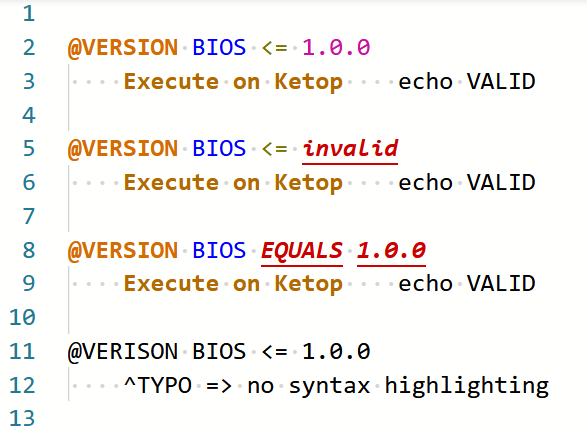
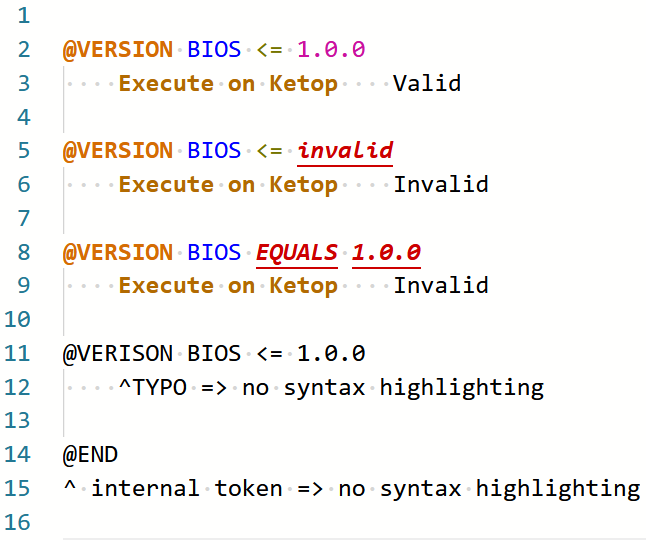
implementing feedback p2

diff --git a/sections/4_implementation/7_a_syntax-highlighting.tex b/sections/4_implementation/7_a_syntax-highlighting.tex
@@ -4,14 +4,18 @@ One part of this project presented in this theis, was the development of Syntax 
 
 There is a fundamental problem though. Because standard text-editors and native Robot Framework syntax highlighters do not recognize this new grammar, custom annotations would be displayed as plain text, or worse, marked as syntax errors.
 
-For KEBA, the frontend editor needs a way to visually mark these custom elements, because if they are not able to do so, it can lead to worse developer experience and more errors that go unnoticed until execution. Without visual validation, developers make more syntax mistakes. For example, writing \texttt{@VERISON} instead of \texttt{@VERSION}) or using an invalid argument type, like passing a plain string where a semantic version number is expected, would not be recognized while typing. These mistakes remain unnoticed. The errors are only found during the backend transpilation phase much later, when an error log is generated. This breaks the entire programming workflow and wastes precious time.
+For KEBA, the frontend editor needs a way to visually mark these custom elements, because if they are not able to do so, it can lead to worse developer experience and more errors that go unnoticed until execution. Without visual validation, developers make more syntax mistakes. 
+eFor example, writing \texttt{@VERISON} instead of \texttt{@VERSION} or using an invalid argument type, like passing a plain string where a semantic version number is expected, would not be recognized while typing. These mistakes remain unnoticed. The errors are only found during the backend transpilation phase much later, when an error log is generated. This breaks the entire programming workflow and wastes precious time.
 
-To fix this, custom syntax highlighting should be integrated into the web-based pre-existing code editor. The main objective simply was to get immediate visual feedback and validation. Correct keywords, different types of arguments and errors should all be highlighted in unique colors. This should reduce the time needed for test development using the annotations by a lot. Figure \ref{fig:syntax_highlighting} shows how the editor is supposed to handle valid and invalid inputs.
+To fix this, custom syntax highlighting should be integrated into the web-based pre-existing code editor. The main objective simply was to get immediate visual feedback and validation. Correct keywords, different types of arguments and errors should all be highlighted in unique colors. This should reduce the time needed for test development, with our Script Assembler annotations/modifiers in use, by a lot. Figure \ref{fig:syntax_highlighting} shows how the editor is supposed to handle valid and invalid inputs.
 
 \begin{figure}
     \centering
     \includegraphics[width=0.75\linewidth]{pics/SyntaxHighlighting/SyntaxWHITE.png}
-    \caption{Syntax Highlighting in Action}
+    \captionsetup{justification=centering,singlelinecheck=false}
+    \caption{
+      Syntax Highlighting in Action\\
+{\small\itshape (color scheme was modified for better visibility in print)}}    
     \label{fig:syntax_highlighting}
 \end{figure}
 
@@ -26,7 +30,7 @@ Over time the frontend ecosystem of the project has been updated to Angular 15, 
 
 This workaround made it possible for the legacy code to somehow continue working, but it also created major risks for maintainability and the build process. Forcing npm installation is a bad practice since it only covers up package mismatches and other errors. Because of this, there is a major risk that one might get unpredictable runtime behaviors \cite{npmForceDocs}. Since we do not want that, especially later on in production, the package needed to be replaced.
 
-After some research, the best and most widely used package seemed to be \texttt{ngx-monaco-editor-v2}. This version is an actively maintained community fork that is compatible with mordern Angular versions \cite{NgxMonacoEditorV2}.
+After some research, the best and most widely used package, fitting exactly our requirements, seemed to be \texttt{ngx-monaco-editor-v2}. This version is an actively maintained community fork that is compatible with mordern Angular versions \cite{NgxMonacoEditorV2}.
 
 The migration was handled in several steps to ensure a stable base. The \texttt{package.json} had to be updated, then the \texttt{app.module.ts} was refactored to match the new library and finally the asset paths in \texttt{angular.json} had to be updated.
 
@@ -40,7 +44,7 @@ Looking in the documentation gave me a hint in the right direction. The engine o
 
 The solution was to add an empty \texttt{colors} object to the theme definition. Listing \ref{lst:theme_definition} shows the working theme configuration, which includes the required \texttt{colors} property alongside the specific token rules.
 
-\begin{lstlisting}[caption={Custom monaco theme including the required color object}, label={lst:theme_definition}]
+\begin{lstlisting}[caption={Custom monaco theme including the required color object}, label={lst:theme_definition}, float=htbp]
 // Definition of the custom language theme
 (<any>window).monaco.editor.defineTheme('robot-theme', {
   base: 'vs-dark',
@@ -74,7 +78,7 @@ The annotations can be roughly divided into two categories. Those without any ar
 
 Modifiers without arguments, such as \texttt{@BRACKETSTART}, are simple to implement. As shown in Listing \ref{lst:root_tokenizer}, when the lexer encounters this keyword, it transitions to an \texttt{@endOfLine} state. This state  makes sure that no more text is accepted on this line. 
 
-\begin{lstlisting}[caption={Monarch tokenizers root state}, label={lst:root_tokenizer}]
+\begin{lstlisting}[caption={Monarch tokenizers root state}, label={lst:root_tokenizer}, float=htbp]
 tokenizer: {
   root: [
     // Standard Robot Framework variables
@@ -96,11 +100,12 @@ tokenizer: {
 
 Modifiers with arguments are more difficult, because hey require a more complex sequence of state transitions. The modifier \texttt{@VERSION} is a good example of this as the version check needs three different components. Also important is,  they have to be in an exact order, starting with an identifier (the BIOS or software name), than a comparison operator (e.g., <, >=), and at last a valid semantic version string.
 
-A chain of states was implemented, Root to identifier, Identifier to operator, Operator to version. That means in detail, when \texttt{@VERSION} is found in the \texttt{@root} state, the lexer transitions to \texttt{versionArgsIdentifier}. Once a valid word is found there, it transitions to \texttt{versionArgsOperator} and finally to \texttt{versionArgsSemver}.
+A chain of states was implemented, Root to identifier, Identifier to operator, Operator to version. That means that when \texttt{@VERSION} is found in the \texttt{@root} state, the lexer transitions to \texttt{versionArgsIdentifier}. Once a valid word is found there, it transitions to \texttt{versionArgsOperator} and finally to \texttt{versionArgsSemver}.
 
 This ``state machine'' approach guarantees that the syntax highlighting exactly fits to the strict sequence that the parser needs. Listing \ref{lst:version_states} shows this state chain in detail. 
 
-\begin{lstlisting}[caption={State transitions for the \texttt{@VERSION} modifier}, label={lst:version_states}]
+\begin{lstlisting}[caption={State transitions for the \texttt{@VERSION} modifier}, label={lst:version_states}, 
+  breaklines=true, breakatwhitespace=false, float=htbp ]
 versionArgsIdentifier: [ 
   // Entry point: match a word, then proceed to operator state
   [/[\w_]+/, 'arg.word', '@versionArgsOperator'],
@@ -134,11 +139,19 @@ During the implementation of the lexer, two main problems appeared, firstly to p
 
 The custom EBNF grammar for the Script Assembler is strictly line-bound, so an annotation has to be strictly on a singular line. So if a line break occurs the editor should return to the standard context used for the syntax highlighting of the Robot Framework.
 
-In the beginning, this caused a big conflict with Monarch's stateful tokenization. When the lexer goes into a state like \texttt{versionArgsIdentifier}, it just stays inside it until an explicit command such as \texttt{@root} or \texttt{@pop} is triggered. If a developer typed the keyword \texttt{@VERSION} and then pressed the Enter key without any arguments, the lexer got stuck in the \texttt{versionArgsIdentifier} state on the next line. Because of this, normal Robot Framework code on the following lines was wrongly checked against the version argument regular expressions. This completely destroyed the syntax highlighting for the whole rest of the file.
+In the beginning, this caused a big conflict with Monarch's stateful tokenization. When the lexer goes into a state like \texttt{versionArgsIdentifier}, it just stays inside it until an explicit command such as \texttt{@root} or \texttt{@pop} is triggered. If a developer typed the keyword \texttt{@VERSION} and then pressed the Enter key without any arguments, the lexer got stuck in the \texttt{versionArgsIdentifier} state on the next line. Because of this, normal Robot Framework code on the following lines was wrongly checked against the version argument regular expressions. This completely destroyed the syntax highlighting for the whole rest of the file (see Figure \ref{fig:statebleed} for example).
 
-To fix this ``state bleed'', the lexer had to recognize line breaks as termination triggers. Normally, Monarch works line-by-line and does not pass line break characters to the Regex engine \cite[pp.~8-9]{Krieken2023DerivingGrammars}. To change this, the \texttt{includeLF} property was enabled in the language configuration (see Listing \ref{lst:monarch_config_lf}).
+\begin{figure}[hbtp]
+    \centering
+    \includegraphics[width=1\linewidth]{pics/SyntaxHighlighting/state-bleed-white.png}
+    \caption{State bleed in the editor when line breaks are not included}
+    \label{fig:statebleed}
+\end{figure}
 
-\begin{lstlisting}[caption={\texttt{includeLF} in the Monarch config}, label={lst:monarch_config_lf}]
+
+To fix this ``state bleed'', the lexer had to recognize line breaks as termination triggers. Normally, Monarch works line-by-line and does not pass line break characters to the Regex engine. To change this, the \texttt{includeLF} property was enabled in the language configuration (see Listing \ref{lst:monarch_config_lf}).
+
+\begin{lstlisting}[caption={\texttt{includeLF} in the Monarch config}, label={lst:monarch_config_lf}, float=htbp]
 (<any>window).monaco.languages.setMonarchTokensProvider('robot', {
   ignoreCase: true,
   includeLF: true, // Exposes newline to the regex engine
@@ -152,7 +165,7 @@ With \texttt{includeLF} set to true, line breaks can be recognized. As can be se
 
 \subsection{Visualizing Syntax Errors}
 
-A major goal for the fronted-editor was to show syntax errors to the user right away, but there was a strict rule for this. The error highlighting had to work only through the Monarch configuration, because complex language server or an extra linter were not an option, as tools like that just use too many resources.
+A major goal for the fronted-editor was to show syntax errors to the user right away, but there was a strict rule for this. The error highlighting had to work only through the Monarch configuration, because a complex language server or an extra linter were not an option, as tools like that just use too many resources.
 
 This was quite a problem because Monarch is really just a lexical analyzer, meaning a lexer, and not a semantic parser \cite{MonacoMonarchDocs};~\cite[pp.~5-8]{Aho2006}. It only uses regular expressions to map strings to token classes. It does not know anything about ``errors'' or ``warnings''. It also cannot draw the typical red wavy lines, that are used for code defects in modern \glspl{ide}.
 
@@ -162,30 +175,32 @@ This \texttt{invalid} category then served as a catch-all mechanism in the state
 
 A good  example for this is the modifier \texttt{@BRACKETSTART}. As it does not allow any arguments, the following happens by running the system. When the lexer sees this exact keyword, it switches to the \texttt{endOfLine} state (see Listing \ref{lst:end_of_line_state}).
 
-\begin{lstlisting}[caption={The \texttt{endOfLine} state}, label={lst:end_of_line_state}]
+\begin{lstlisting}[caption={The \texttt{endOfLine} state}, label={lst:end_of_line_state}, float=htbp]
 endOfLine: [
   [/\n/, '', '@root'], // Valid: line ends, return to root
   [/./, 'invalid']     // Error: any other character is invalid
 ],
 \end{lstlisting}
 
-For example for the case, when a developer accidentally types a  \texttt{@BRACKETSTART argument}, the lexer first recognizes the annotation, jumps to the \texttt{endOfLine} state. There, it expects the end of the line. Instead, it encounters a space, and the word ``argument''. Because these characters do not match the \texttt{/\textbackslash n/} Regex, they fall through to the \texttt{/./} rule. As a result, the string ``argument'' turns red, gets underlined and italic, and is signaling by this way a  syntax error to the developer.  The user sees a clear syntax error right away without backend validation. Real-time error feedback is a useful feature, and even better, everything remains strictly within the boundaries of the Monarch lexer architecture.
+For example for the case, when a developer accidentally types a  \texttt{@BRACKETSTART argument}, the lexer first recognizes the annotation, jumps to the \texttt{endOfLine} state. There, it expects the end of the line. Instead, it encounters a space, and the word ``argument''. Because these characters do not match the \texttt{/\textbackslash n/} Regex, they fall through to the \texttt{/./} rule. As a result, the string ``argument'' turns red, gets underlined and italic, and by doing so, shows the developer a syntax error. The user sees a clear syntax error right away without backend validation. Real-time error feedback is a useful feature, and even better, everything remains strictly within the boundaries of the Monarch lexer architecture.
 
 \section{Limitations}
 
-Being able to catch errors early with the syntax highlighting was definitely worth the addition. But even with all effort, there is a limitation that could not be fixed, since there is a conflict between the rules of the two used languages, which could only be fixed through an own Language Server.
+Being able to catch errors early with the syntax highlighting was definitely worth the addition. But even with all the effort, there is a limitation that could not be fixed, since there is a conflict between the rules of the two used languages, which could only be fixed through a custom Language Server.
 
 The EBNF grammar for the backend is strictly case-sensitive. That means, all annotations and modifiers like \texttt{@VERSION} or \texttt{@OS}, have to be in uppercase, and different spelling leads to  a syntax error during transpilation.
 
-The standard Robot Framework language on the other hand works differently. Here upper and lower case do not matter, the language is case-insensitive \cite{RobotFrameworkCaseInsensitive}). Because of this, the \texttt{ignoreCase} property of the Monarch lexer must be set to true globally, if not, the normal keywords and variables do not get the correct highlighting (see Figure \ref{fig:statebleed} for example. 
+The standard Robot Framework language on the other hand works differently. Here upper and lower case do not matter, the language is case-insensitive \cite{RobotFrameworkCaseInsensitive}. Because of this, the \texttt{ignoreCase} property of the Monarch lexer must be set to true globally, if not, the normal keywords and variables do not get the correct highlighting (see example in Figure \ref{fig:case-sensitivity-issue}). 
 
-\begin{figure}[hbtp]
+\begin{figure}[htb]
     \centering
-    \includegraphics[width=1\linewidth]{pics/SyntaxHighlighting/state-bleed-white.png}
-    \caption{State bleed in the editor when line breaks are not included}
-    \label{fig:statebleed}
+    \includegraphics[width=0.8\linewidth]{pics/SyntaxHighlighting/case-sensitivity-issue.png}
+    \caption{Case sensitivity issues in syntax highlighting}
+    \label{fig:case-sensitivity-issue}
 \end{figure}
 
-The Monarch API only allows this setting for the entire language, because it is only possible through the global \texttt{ignoreCase} property defined in the \texttt{IMonarchLanguage} interface. A custom override for one tokenizer rule(\texttt{IMonarchLanguageRule}) or a single state is not possible. Therefore, the setting affects everything, the entire tokenizer. In the implemented editor configuration this global setting also affect the custom annotation rules, and as a result, if a developer types \texttt{@version} in lowercase, the frontend lexer still matches the rule and applies the corresponding syntax highlighting. But with the same script, the validation crashes when the backend EBNF parser takes the script. The reason is that the parser strictly needs the uppercase syntax \cite{MonacoMonarchTypes0341}.
 
-This limitation leads to a small difference between the visual representation and the backend, but it is an unavoidable compromise. Disabling \texttt{ignoreCase} globally completely breaks the standard Robot Framework code highlighting, and hat specific code is the vast majority of the file. The more important thing is, that the base language simply has to function. This was the basis for the final architectural decision together with KEBA.
+The Monarch API only allows this setting for the entire language, because it is only possible through the global \texttt{ignoreCase} property defined in the \texttt{IMonarchLanguage} interface. A custom override for one tokenizer rule(\texttt{IMonarchLanguageRule}) or a single state is not possible. Therefore, the setting affects everything, the entire tokenizer. In the implemented editor configuration this global setting also affects the custom annotation rules, and as a result, if a developer types \texttt{@version} in lowercase, the frontend lexer still matches the rule and applies the corresponding syntax highlighting. But with the same script, the validation crashes when the backend EBNF parser takes the script. The reason is that the parser strictly needs the uppercase syntax \cite{MonacoMonarchTypes0341}.
+
+This limitation leads to a small difference between the visual representation and the backend, but it is an unavoidable compromise. Disabling \texttt{ignoreCase} globally completely breaks the standard Robot Framework code highlighting, and that code is the vast majority of the file. That is why it is more important, that the base language simply has to function. This was the basis for the final architectural decision together with KEBA, even if it means the developer will only notice the error during transpilation and not while typing.
+

diff --git a/sections/4_implementation/2_a_preprocessor.tex b/sections/4_implementation/2_a_preprocessor.tex
@@ -13,7 +13,9 @@ That is why an additional preprocessing step is required before the Lark parser 
 
 \subsection{Content vs. Meta-Language Conflict}
 
-The fundamental problem is that both languages use spaces and indentation to define logic and structure. In the Robot Framework, spaces and tabs separate keywords from arguments, and indentation marks the contents of blocks like \texttt{FOR} loops and \texttt{IF} statements. At the same time, the Script Assembler uses indentation to determine which lines belong to a specific modifier. This leads to the problem of having to somehow seperate those two kind of indents (see Figure \ref{fig:indents_highlights}) and thus the need for our own Preprocessor instead of the Lark Indenter.
+The fundamental problem is that both languages use spaces and indentation to define logic and structure. In the Robot Framework, spaces and tabs separate keywords from arguments, and indentation marks the contents of blocks like \texttt{FOR} loops and \texttt{IF} statements, as shown with green highlights in Figure \ref{fig:indents_highlights}.
+
+At the same time, the Script Assembler uses indentation to determine which lines belong to a specific modifier, as shown with orange highlights in Figure \ref{fig:indents_highlights}. This leads to the problem of having to somehow seperate those two kind of indents and thus the need for our own Preprocessor instead of the Lark Indenter.
 
 \begin{figure}[h]
     \centering
@@ -40,7 +42,7 @@ With these clear boundaries, the EBNF grammar in Lark is simplified. It only nee
 The following example uses several annotations nested within standard Robot Framework control structures. Listing \ref{lst:raw_script} shows a typical raw Preprocessor input script written by a test developer.
 
 
-\begin{lstlisting}[caption={Raw input script with nested modifiers}, label={lst:raw_script}]
+\begin{lstlisting}[caption={Raw input script with nested modifiers}, label={lst:raw_script}, float=htbp]
 Setup Test Environment
     @VERSION BIOS == 1.6.1
         Log    Checking BIOS Version
@@ -56,7 +58,7 @@ In Listing \ref{lst:raw_script}, a Robot Framework keyword (\texttt{Setup Test E
 The Preprocessor should calculate the active layers of modifiers and remove only the leading indents belonging to these specific layers. Listing \ref{lst:preprocessed_script} shows the expected output.
 
 
-\begin{lstlisting}[caption={Expected Preprocesssor output}, label={lst:preprocessed_script}]
+\begin{lstlisting}[caption={Expected Preprocesssor output}, label={lst:preprocessed_script}, float=htbp]
 
 Setup Test Environment
 @VERSION BIOS == 1.6.1
@@ -104,7 +106,7 @@ The linear depth counting approach unfortunately failed when Script Assembler an
 Listing \ref{lst:problem_script} demonstrates the specific edge case that exposed the flaw in the naive algorithm.
 
 
-\begin{lstlisting}[caption={Problematic edge case}, label={lst:problem_script}]
+\begin{lstlisting}[caption={Problematic edge case}, label={lst:problem_script}, float=htbp]
 @VERSION BIOS == 1.2.3
     FOR    ${item}    IN    @{ITEMS}
         @VERSION KBDRIVER != 0.2.5
@@ -130,7 +132,7 @@ The algorithm compares the \texttt{Sleep} line's tab count (2) to the \texttt{cu
 
 That is why the algorithm unfortunately fails, as seen in Listing \ref{lst:problem_script_output}. It is counting tabs in \texttt{current\_layer} integer for the indentation and completely ignores how many of these tabs were actually introduced by the contained language.
 
-\begin{lstlisting}[caption={Wrong output of the problematic script with the first approach}, label={lst:problem_script_output}]
+\begin{lstlisting}[caption={Wrong output of the problematic script with the first approach}, label={lst:problem_script_output}, float=htbp]
 @VERSION BIOS == 1.2.3
 FOR    ${item}    IN    @{ITEMS}
 @VERSION KBDRIVER != 0.2.5
@@ -166,7 +168,7 @@ Re-evaluating Listing \ref{lst:problem_script} using this stack-based approach y
 
 \end{itemize}
 
-\begin{lstlisting}[caption={Correct output of the problematic script with the final approach}, label={lst:problem_script_correct}]
+\begin{lstlisting}[caption={Correct output of the problematic script with the final approach}, label={lst:problem_script_correct}, float=htbp]
 @VERSION BIOS == 1.2.3
 FOR    ${item}    IN    @{ITEMS}
 @VERSION KBDRIVER != 0.2.5
@@ -194,7 +196,7 @@ The Preprocessor is initialized with specific regular expressions. These express
 Listing \ref{lst:impl_utils} shows this class initialization alongside these core utility functions.
 
 
-\begin{lstlisting}[language=Python, caption={Class initialization and indentation utility functions}, label={lst:impl_utils}]
+\begin{lstlisting}[language=Python, caption={Class initialization and indentation utility functions}, label={lst:impl_utils}, float=htbp]
 import re
 from broker.managers.case.script_assembler.parser_exception import ParserSyntaxError
 from logging import Logger
@@ -257,7 +259,7 @@ Second, the \texttt{remove\_indents} method removes the tabs of the meta-languag
 The \texttt{preprocess} method handles the line-by-line transformation. Listing \ref{lst:impl_loop} shows the initialization of the state tracking variables: the \texttt{result} string buffer, the \texttt{layer\_tabs} stack, and the \texttt{is\_modifier\_empty} flag.
 
 
-\begin{lstlisting}[language=Python, caption={Initialization of the main preprocessing loop}, label={lst:impl_loop}, firstnumber=46]
+\begin{lstlisting}[language=Python, caption={Initialization of the main preprocessing loop}, label={lst:impl_loop}, float=htbp, firstnumber=46]
 
     def preprocess(self, script: str) -> str:
 
@@ -286,7 +288,11 @@ The \texttt{preprocess} method handles the line-by-line transformation. Listing 
 
 
 First, the loop skips any empty lines.
-Before using the slower \texttt{re.fullmatch} operation, the algorithm checks is the line starts with an \texttt{@} symbol and thus is a modifier. This filters out the majority of lines. If the line begins with that symbol, we check if the modifier is \texttt{@END}. Since this is an internal token only used for terminating the blocks, users are not allowed to use it in raw scripts. That means if it exists in the code, we raise a \texttt{ParserSyntaxError}.
+Before using the slower \texttt{re.fullmatch} operation, the algorithm checks is the line starts with an \texttt{@} symbol and thus is a modifier. This filters out the majority of lines. 
+
+If the line begins with that symbol, we check if the modifier is \texttt{@END}. Since this is an internal token only used for terminating the blocks, users are not allowed to use it in raw scripts. That means if it exists in the code, we raise a \texttt{ParserSyntaxError}. This should basically never happen, since the intermediate code is never exposed to the user and \texttt{@END} tags are not highlighted by the later described syntax highlighting (see Chapter \ref{chap:syntax-highlighting} or Figure \ref{fig:syntax_highlighting}).
+
+Finally, the algorithm checks if the modifier is valid by matching it against the \texttt{modifier\_regex} passed by the Parser. If it is valid, the \texttt{mod} flag is set to \texttt{True} for later use.
 
 \subsection{Scope Handling}
 
@@ -294,7 +300,7 @@ Before using the slower \texttt{re.fullmatch} operation, the algorithm checks is
 After reading a line, the Preprocessor decides whether the line belongs to the current scope, opens a new scope, or closes existing scopes. Listing \ref{lst:impl_stack} illustrates this stack management logic.
 
 
-\begin{lstlisting}[language=Python, caption={The stack implementation for resolving indentation scopes}, label={lst:impl_stack}, firstnumber=69]
+\begin{lstlisting}[language=Python, caption={The stack implementation for resolving indentation scopes}, label={lst:impl_stack}, float=htbp, firstnumber=69]
 
             # [...]
             if len(layer_tabs) > 0:
@@ -302,7 +308,7 @@ After reading a line, the Preprocessor decides whether the line belongs to the c
                 cnt: int = self.count_indents(line)
 
                 if mod:
-                    line = stripped # dont want any indents on modifier lines
+                    line = stripped # don't want any indents on modifier lines
 
                 if cnt <= tabs:
                     while len(layer_tabs) > 0 and cnt <= layer_tabs[-1]:
@@ -342,10 +348,10 @@ That is why the Preprocessor assumes that it is most likely either not correctly
 \subsection{Finalization}
 
 
-At the end of the loop, new scopes are initialized, and the output is verified before being passed to the Parser.
+At the end of the loop, new scopes are initialized, and the output is verified before being passed to the Parser, as seen in Listing \ref{lst:impl_final}.
 
 
-\begin{lstlisting}[language=Python, caption={Handling the root scope and finalizing the output stream at the end of the file.}, label={lst:impl_final}, firstnumber=97]
+\begin{lstlisting}[language=Python, caption={Handling the root scope and finalizing the output stream at the end of the file.}, label={lst:impl_final}, float=htbp, firstnumber=97]
 
             # [...]
 

diff --git a/sections/3_ebnf/2_a_ebnf-approaches.tex b/sections/3_ebnf/2_a_ebnf-approaches.tex
@@ -30,7 +30,7 @@ One of the two strategies explored was the minimal EBNF approach. The idea behin
 Listing \ref{lst:minimal_ebnf} demonstrates this broad structural definition. The grammar does not strictly define every possible keyword. Instead, it simply distinguishes between standard Robot Framework lines, single-line operators, and multi-line operators. 
 
 
-\begin{lstlisting}[caption={The Minimal EBNF grammar}, label={lst:minimal_ebnf}]
+\begin{lstlisting}[caption={The Minimal EBNF grammar}, label={lst:minimal_ebnf}, float=htbp]
 script = {line, nl}, [line].
 line = robot | operator | multiline_operator.
 robot = ? robot code line ?.
@@ -56,7 +56,7 @@ While the Minimal Approach explored maximum flexibility, a completely different 
 
 As shown in Listing \ref{lst:detailed_ebnf},  this iteration uses distinct prefixes for different types of constructs. It also introduces explicit termination symbols to make the structure clear.
 
-\begin{lstlisting}[caption={The Detailed EBNF grammar}, label={lst:detailed_ebnf}]
+\begin{lstlisting}[caption={The Detailed EBNF grammar}, label={lst:detailed_ebnf}, float=htbp]
 S = { ' ' | '\t' } ;
 robot_line = S , ?robot_script_line? , S ;
 option_line = S , '#' , S , option , S ;
